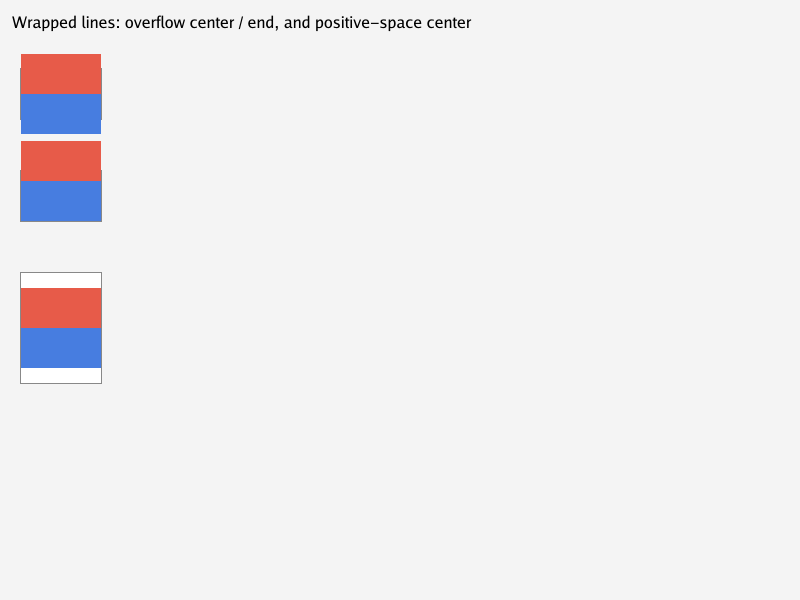
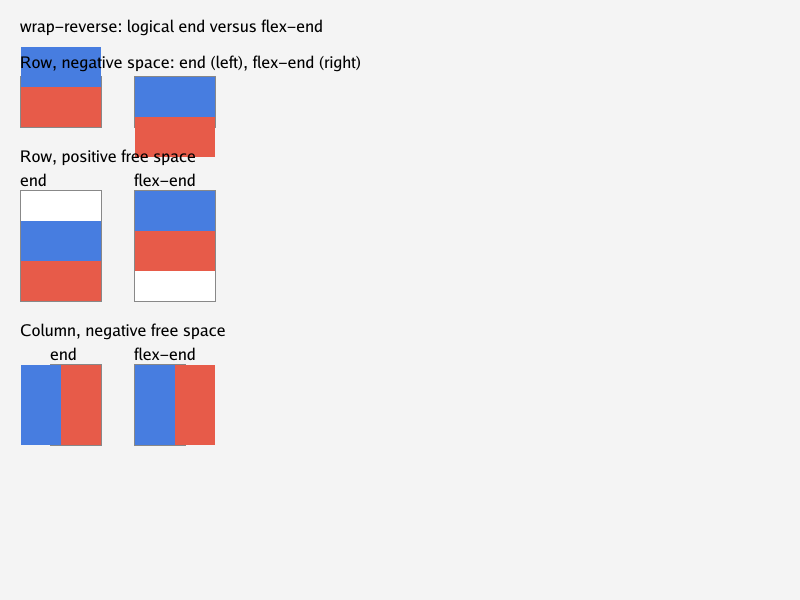
fix: distinguish end under reversed flex wrap

Changed region(s): [[0.0, 0.03, 0.5938, 0.75]]

diff --git a/testdata/flex-align-content-overflow.html b/testdata/flex-align-content-overflow.html
@@ -1,16 +1,34 @@
 <!doctype html>
 <html><body style="margin:0;background:#f4f4f4;font:16px sans-serif">
-<div style="margin:12px">Wrapped lines: overflow center / end, and positive-space center</div>
-<div style="margin:36px 20px 50px;background:white;border:1px solid #888;width:80px;height:50px;display:flex;flex-wrap:wrap;align-content:center">
-  <div style="flex:none;width:80px;height:40px;background:#e75b49"></div>
-  <div style="flex:none;width:80px;height:40px;background:#477de0"></div>
+<div style="margin:16px 20px">wrap-reverse: logical end versus flex-end</div>
+
+<div style="margin:12px 20px 4px">Row, negative space: end (left), flex-end (right)</div>
+<div style="display:flex;gap:32px;margin:0 20px 18px">
+  <div><div style="margin-top:32px;background:white;border:1px solid #888;width:80px;height:50px;display:flex;flex-wrap:wrap-reverse;align-content:end">
+    <div style="flex:none;width:80px;height:40px;background:#e75b49"></div><div style="flex:none;width:80px;height:40px;background:#477de0"></div>
+  </div></div>
+  <div><div style="margin-top:32px;background:white;border:1px solid #888;width:80px;height:50px;display:flex;flex-wrap:wrap-reverse;align-content:flex-end">
+    <div style="flex:none;width:80px;height:40px;background:#e75b49"></div><div style="flex:none;width:80px;height:40px;background:#477de0"></div>
+  </div></div>
 </div>
-<div style="margin:36px 20px 50px;background:white;border:1px solid #888;width:80px;height:50px;display:flex;flex-wrap:wrap;align-content:end">
-  <div style="flex:none;width:80px;height:40px;background:#e75b49"></div>
-  <div style="flex:none;width:80px;height:40px;background:#477de0"></div>
+
+<div style="margin:12px 20px 4px">Row, positive free space</div>
+<div style="display:flex;gap:32px;margin:0 20px 18px">
+  <div><div>end</div><div style="background:white;border:1px solid #888;width:80px;height:110px;display:flex;flex-wrap:wrap-reverse;align-content:end">
+    <div style="flex:none;width:80px;height:40px;background:#e75b49"></div><div style="flex:none;width:80px;height:40px;background:#477de0"></div>
+  </div></div>
+  <div><div>flex-end</div><div style="background:white;border:1px solid #888;width:80px;height:110px;display:flex;flex-wrap:wrap-reverse;align-content:flex-end">
+    <div style="flex:none;width:80px;height:40px;background:#e75b49"></div><div style="flex:none;width:80px;height:40px;background:#477de0"></div>
+  </div></div>
 </div>
-<div style="margin:36px 20px;background:white;border:1px solid #888;width:80px;height:110px;display:flex;flex-wrap:wrap;align-content:center">
-  <div style="flex:none;width:80px;height:40px;background:#e75b49"></div>
-  <div style="flex:none;width:80px;height:40px;background:#477de0"></div>
+
+<div style="margin:12px 20px 4px">Column, negative free space</div>
+<div style="display:flex;gap:32px;margin:0 50px">
+  <div><div>end</div><div style="background:white;border:1px solid #888;width:50px;height:80px;display:flex;flex-direction:column;flex-wrap:wrap-reverse;align-content:end">
+    <div style="flex:none;width:40px;height:80px;background:#e75b49"></div><div style="flex:none;width:40px;height:80px;background:#477de0"></div>
+  </div></div>
+  <div><div>flex-end</div><div style="background:white;border:1px solid #888;width:50px;height:80px;display:flex;flex-direction:column;flex-wrap:wrap-reverse;align-content:flex-end">
+    <div style="flex:none;width:40px;height:80px;background:#e75b49"></div><div style="flex:none;width:40px;height:80px;background:#477de0"></div>
+  </div></div>
 </div>
 </body></html>

diff --git a/internal/browser/flex_test.go b/internal/browser/flex_test.go
@@ -524,6 +524,46 @@ func TestFlexWrapLinesGeometryAndPixels(t *testing.T) {
 		want:   map[string]image.Rectangle{"c": image.Rect(0, 0, 50, 50), "a": image.Rect(-15, 0, 25, 50), "b": image.Rect(25, 0, 65, 50)},
 		pixels: map[image.Point]color.RGBA{{0, 5}: red, {24, 5}: red, {25, 5}: blue, {49, 5}: blue},
 	}, {
+		name:   "wrap-reverse row end keeps logical end with negative space",
+		source: `<div id="c" style="display:flex;flex-wrap:wrap-reverse;align-content:end;align-items:flex-start;width:20px;height:30px"><div id="a" style="flex:none;width:20px;height:20px;background:red"></div><div id="b" style="flex:none;width:20px;height:20px;background:blue"></div></div>`,
+		want:   map[string]image.Rectangle{"c": image.Rect(0, 0, 20, 30), "a": image.Rect(0, 10, 20, 30), "b": image.Rect(0, -10, 20, 10)},
+		pixels: map[image.Point]color.RGBA{{5, 0}: blue, {5, 9}: blue, {5, 10}: red, {5, 29}: red},
+	}, {
+		name:   "wrap-reverse row flex-end follows reversed cross end with negative space",
+		source: `<div id="c" style="display:flex;flex-wrap:wrap-reverse;align-content:flex-end;align-items:flex-start;width:20px;height:30px"><div id="a" style="flex:none;width:20px;height:20px;background:red"></div><div id="b" style="flex:none;width:20px;height:20px;background:blue"></div></div>`,
+		want:   map[string]image.Rectangle{"c": image.Rect(0, 0, 20, 30), "a": image.Rect(0, 20, 20, 40), "b": image.Rect(0, 0, 20, 20)},
+		pixels: map[image.Point]color.RGBA{{5, 0}: blue, {5, 19}: blue, {5, 20}: red, {5, 29}: red},
+	}, {
+		name:   "wrap-reverse row end keeps logical end with positive space",
+		source: `<div id="c" style="display:flex;flex-wrap:wrap-reverse;align-content:end;align-items:flex-start;width:20px;height:60px"><div id="a" style="flex:none;width:20px;height:20px;background:red"></div><div id="b" style="flex:none;width:20px;height:20px;background:blue"></div></div>`,
+		want:   map[string]image.Rectangle{"c": image.Rect(0, 0, 20, 60), "a": image.Rect(0, 40, 20, 60), "b": image.Rect(0, 20, 20, 40)},
+		pixels: map[image.Point]color.RGBA{{5, 0}: {255, 255, 255, 255}, {5, 20}: blue, {5, 40}: red, {5, 59}: red},
+	}, {
+		name:   "wrap-reverse row flex-end follows reversed cross end with positive space",
+		source: `<div id="c" style="display:flex;flex-wrap:wrap-reverse;align-content:flex-end;align-items:flex-start;width:20px;height:60px"><div id="a" style="flex:none;width:20px;height:20px;background:red"></div><div id="b" style="flex:none;width:20px;height:20px;background:blue"></div></div>`,
+		want:   map[string]image.Rectangle{"c": image.Rect(0, 0, 20, 60), "a": image.Rect(0, 20, 20, 40), "b": image.Rect(0, 0, 20, 20)},
+		pixels: map[image.Point]color.RGBA{{5, 0}: blue, {5, 20}: red, {5, 39}: red, {5, 40}: {255, 255, 255, 255}},
+	}, {
+		name:   "wrap-reverse column end keeps logical end with negative space",
+		source: `<div id="c" style="display:flex;flex-direction:column;flex-wrap:wrap-reverse;align-content:end;align-items:flex-start;width:30px;height:20px"><div id="a" style="flex:none;width:20px;height:20px;background:red"></div><div id="b" style="flex:none;width:20px;height:20px;background:blue"></div></div>`,
+		want:   map[string]image.Rectangle{"c": image.Rect(0, 0, 30, 20), "a": image.Rect(10, 0, 30, 20), "b": image.Rect(-10, 0, 10, 20)},
+		pixels: map[image.Point]color.RGBA{{0, 5}: blue, {9, 5}: blue, {10, 5}: red, {29, 5}: red},
+	}, {
+		name:   "wrap-reverse column flex-end follows reversed cross end with negative space",
+		source: `<div id="c" style="display:flex;flex-direction:column;flex-wrap:wrap-reverse;align-content:flex-end;align-items:flex-start;width:30px;height:20px"><div id="a" style="flex:none;width:20px;height:20px;background:red"></div><div id="b" style="flex:none;width:20px;height:20px;background:blue"></div></div>`,
+		want:   map[string]image.Rectangle{"c": image.Rect(0, 0, 30, 20), "a": image.Rect(20, 0, 40, 20), "b": image.Rect(0, 0, 20, 20)},
+		pixels: map[image.Point]color.RGBA{{0, 5}: blue, {19, 5}: blue, {20, 5}: red, {29, 5}: red},
+	}, {
+		name:   "wrap-reverse column end keeps logical end with positive space",
+		source: `<div id="c" style="display:flex;flex-direction:column;flex-wrap:wrap-reverse;align-content:end;align-items:flex-start;width:60px;height:20px"><div id="a" style="flex:none;width:20px;height:20px;background:red"></div><div id="b" style="flex:none;width:20px;height:20px;background:blue"></div></div>`,
+		want:   map[string]image.Rectangle{"c": image.Rect(0, 0, 60, 20), "a": image.Rect(40, 0, 60, 20), "b": image.Rect(20, 0, 40, 20)},
+		pixels: map[image.Point]color.RGBA{{0, 5}: {255, 255, 255, 255}, {20, 5}: blue, {40, 5}: red, {59, 5}: red},
+	}, {
+		name:   "wrap-reverse column flex-end follows reversed cross end with positive space",
+		source: `<div id="c" style="display:flex;flex-direction:column;flex-wrap:wrap-reverse;align-content:flex-end;align-items:flex-start;width:60px;height:20px"><div id="a" style="flex:none;width:20px;height:20px;background:red"></div><div id="b" style="flex:none;width:20px;height:20px;background:blue"></div></div>`,
+		want:   map[string]image.Rectangle{"c": image.Rect(0, 0, 60, 20), "a": image.Rect(20, 0, 40, 20), "b": image.Rect(0, 0, 20, 20)},
+		pixels: map[image.Point]color.RGBA{{0, 5}: blue, {20, 5}: red, {39, 5}: red, {40, 5}: {255, 255, 255, 255}},
+	}, {
 		name:   "wrapped line stretches auto-height items",
 		source: `<div style="display:flex;flex-wrap:wrap;width:100px"><div id="a" style="width:60px;height:15px"></div><div id="e" style="width:30px"></div><div id="b" style="width:60px;height:20px"></div><div id="d" style="width:30px"></div></div>`,
 		want:   map[string]image.Rectangle{"a": image.Rect(0, 0, 60, 15), "e": image.Rect(60, 0, 90, 15), "b": image.Rect(0, 15, 60, 35), "d": image.Rect(60, 15, 90, 35)},

diff --git a/internal/browser/flex.go b/internal/browser/flex.go
@@ -247,6 +247,13 @@ func layoutFlex(parent *StyledNode, x, y, width, containerHeight int, heightDefi
 					offset = free
 				}
 			}
+			// "end" follows the container's logical cross axis, while
+			// "flex-end" follows the flex cross axis. wrap-reverse flips only
+			// the latter. Line positions are mirrored below, so logical end
+			// must start at the unmirrored logical start.
+			if wrapReverse && content == "end" {
+				offset = 0
+			}
 		}
 		cursor := offset
 		for i := range lines {

diff --git a/docs/flexbox.md b/docs/flexbox.md
@@ -43,7 +43,8 @@ its second item must stay inside the 180px container.
   any cross-axis gap); explicit safe/unsafe keywords remain unsupported
   ([#297](https://github.com/lukehoban/simplebrowser/issues/297)).
   [Overflow alignment render](screenshots/flex-align-content-overflow.png)
-  (top: center, middle: end, bottom: center with positive free space).
+  compares logical `end` with flex-relative `flex-end` under `wrap-reverse`
+  for positive and negative free space in row and column containers.
 - Intrinsic (shrink-to-fit) widths: a row's max-content width is its items
   plus gaps on one line; its min-content width is the widest item when
   wrapping, else the sum of items.
